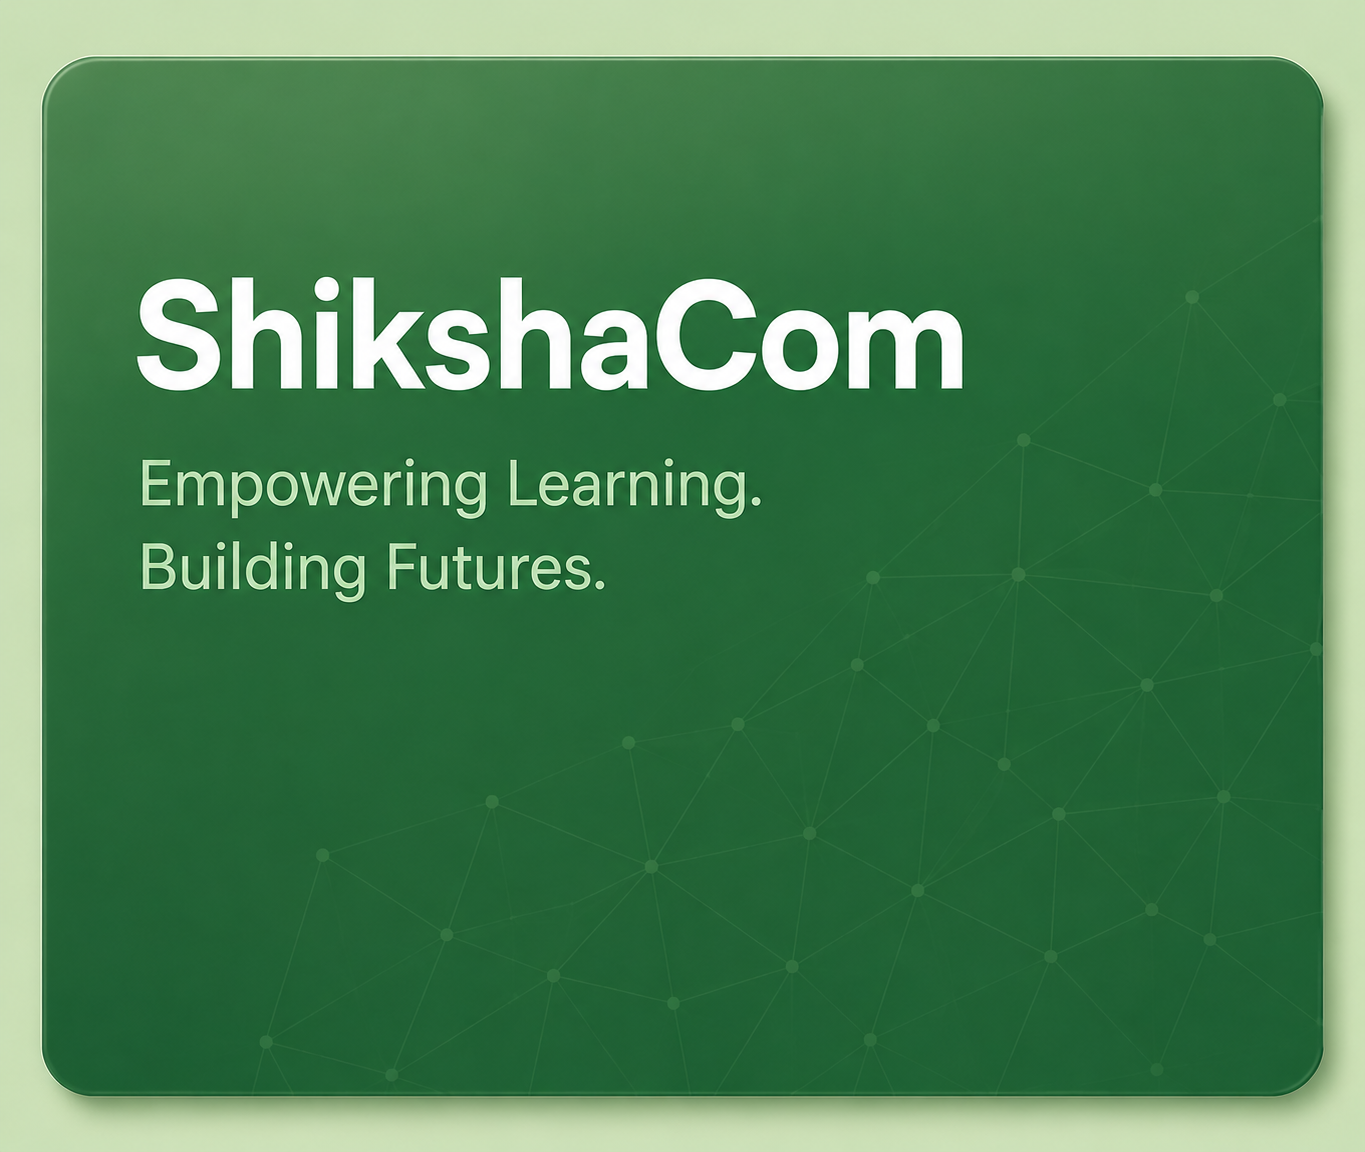
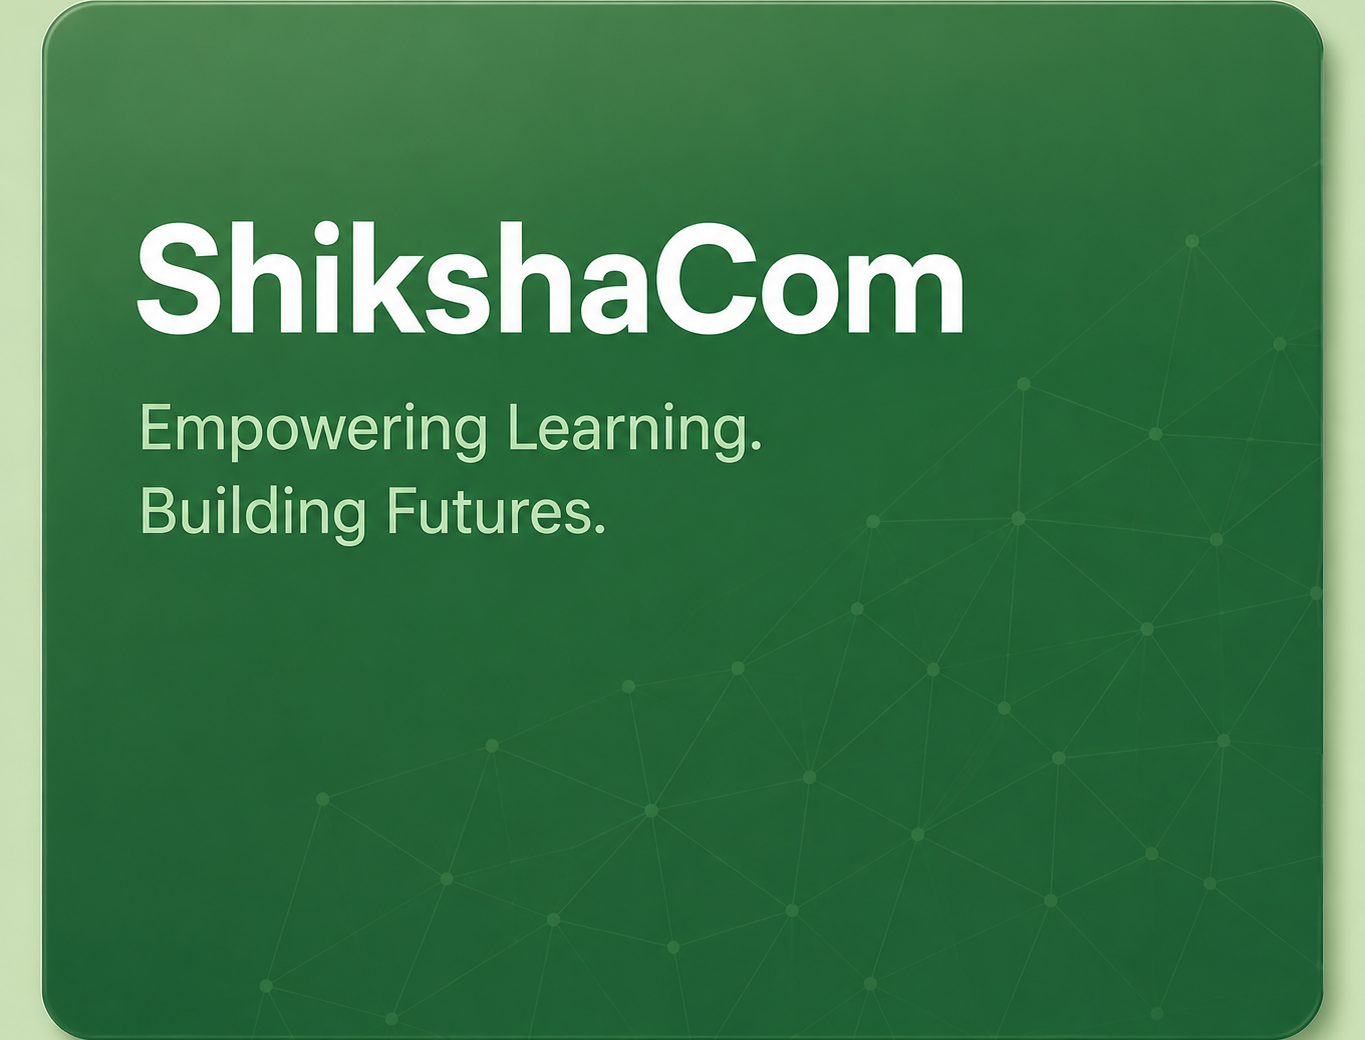
Fix hero card image fit and responsive layout

diff --git a/src/css/Hero.css b/src/css/Hero.css
@@ -114,11 +114,10 @@
 .scard-img {
   width: 100%;
   height: 100%;
+  display: block;
   object-fit: cover;
   object-position: center;
-  display: block;
-  background: transparent;
-  padding: 4px;
+  padding: 0;
 
   transform: translateZ(0);
   will-change: transform;
@@ -261,10 +260,7 @@
     height: 150px;
   }
 
-  .scard-img {
-    object-fit: contain;
-    padding: 4px;
-  }
+  
 
   .updates-panel {
     max-width: 100%;
@@ -288,14 +284,10 @@
     gap: 10px;
   }
   .scard {
-    height: 140px;
+    height: 170px;
   }
 
-  .scard-img {
-    object-fit: contain;
-    padding: 4px;
-  }
-
+  
   .updates-panel {
     max-width: 100%;
   }
@@ -303,13 +295,10 @@
 
 @media (max-width: 480px) {
   .scard {
-    height: 110px;
+    height: 150px;
   }
 
-  .scard-img {
-    object-fit: contain;
-    padding: 4px;
-  }
+  
 
   .subject-grid {
     gap: 8px;
